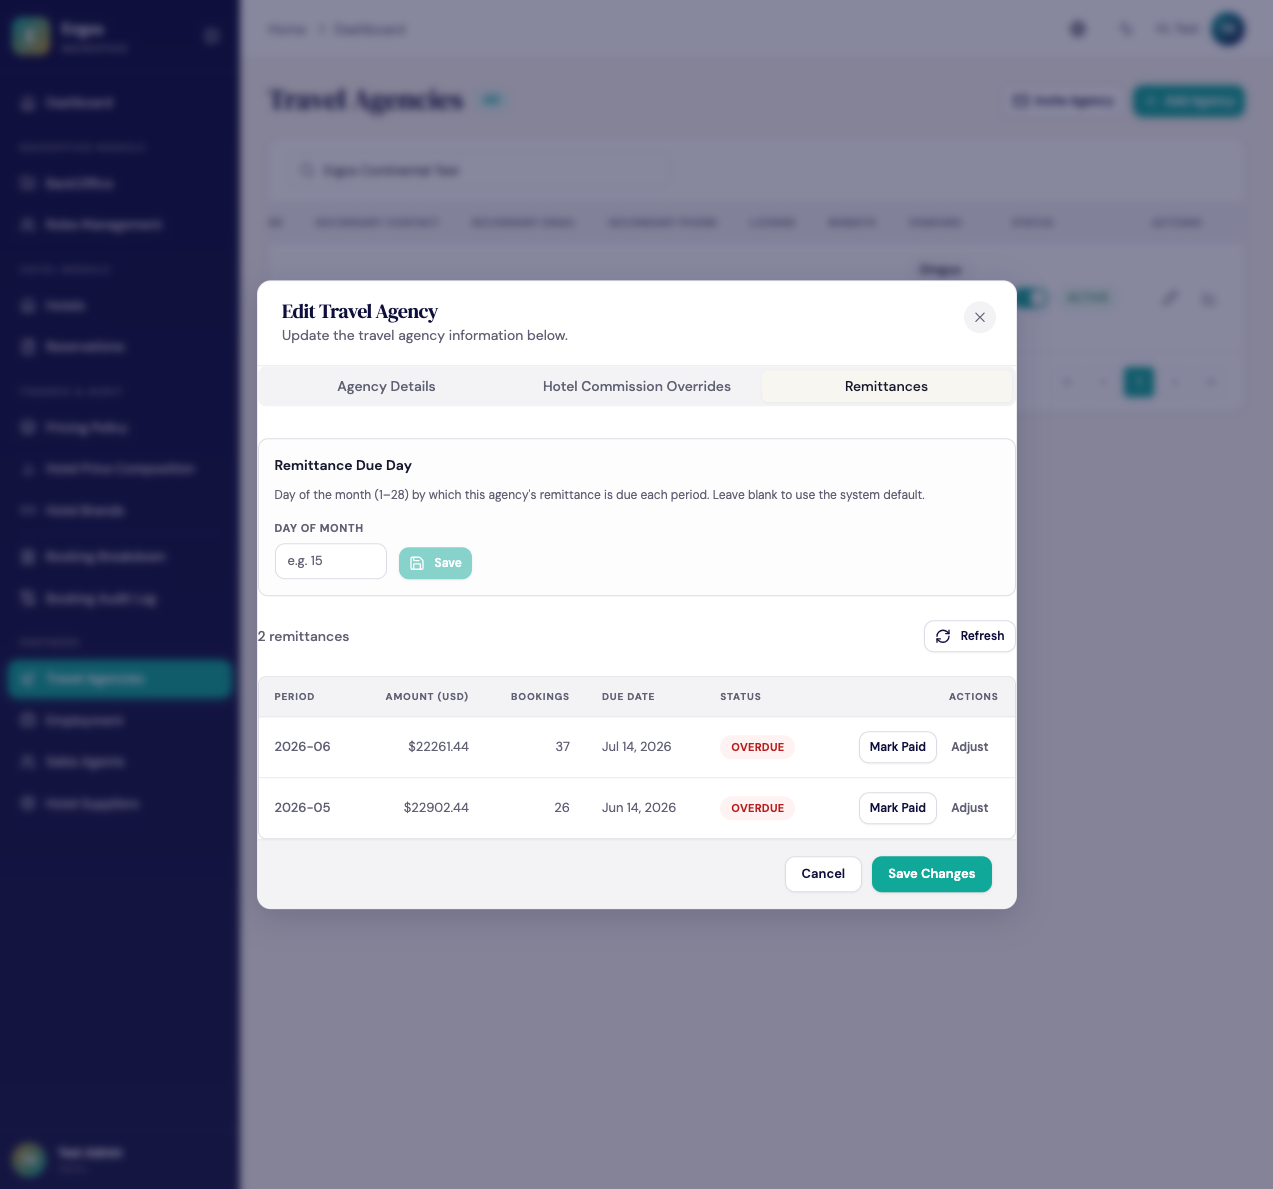
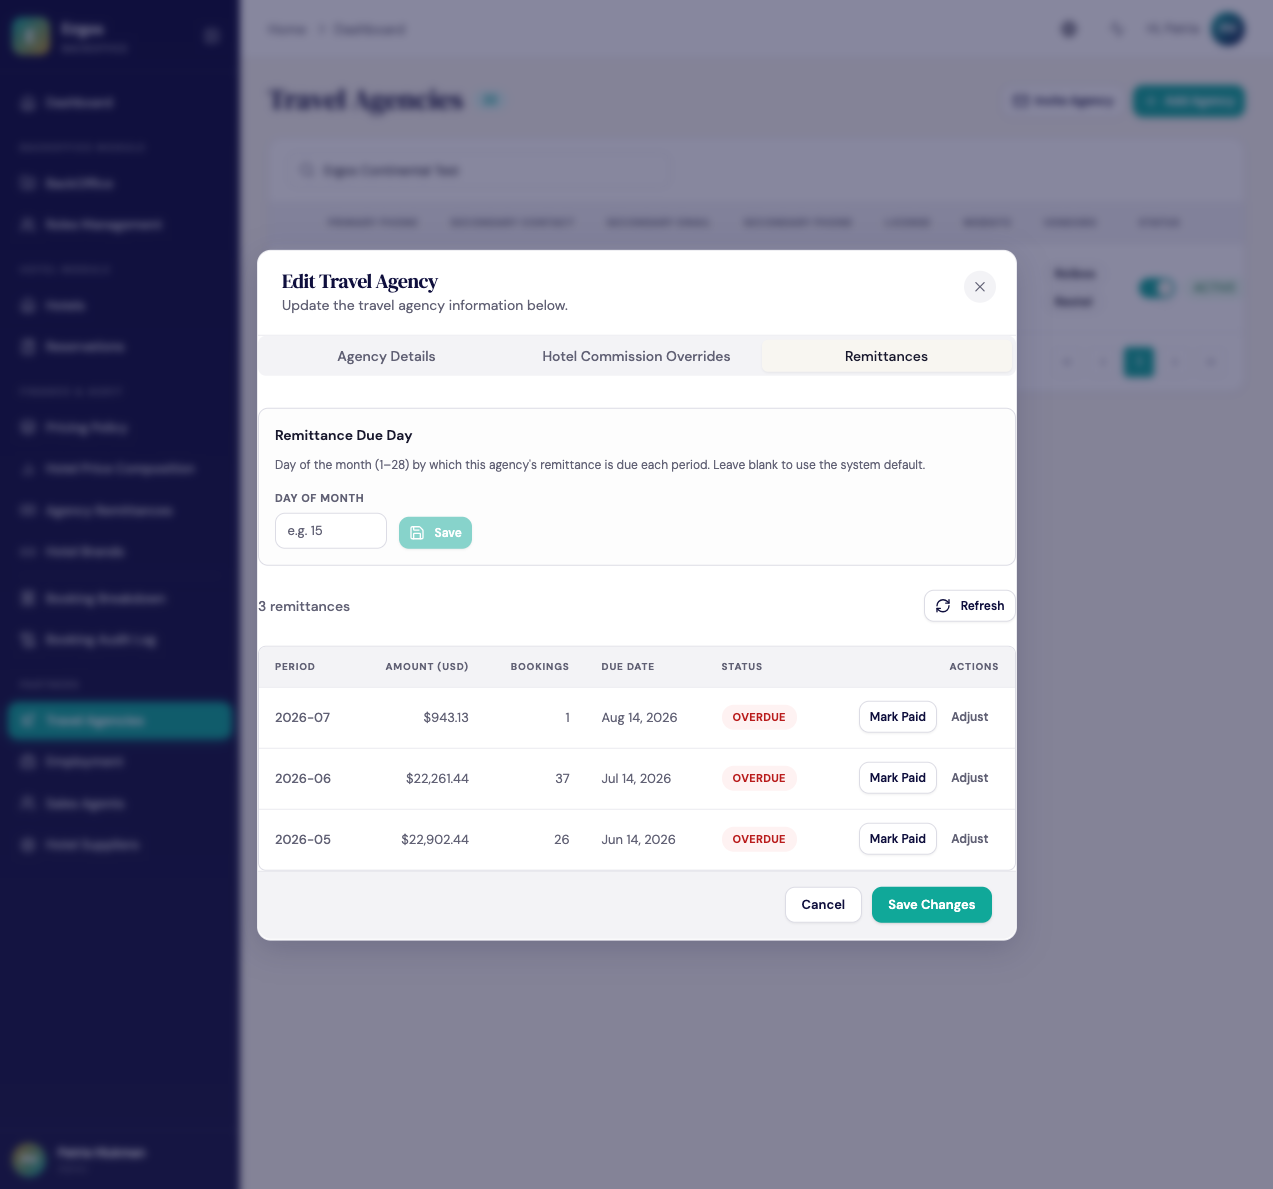
docs(guide): remittance amounts read with thousands separators (documentation#64)
Re-captured both remittance screenshots from TEST; prototype remittance
KPIs, adjust, manual entry and drilldown print $1,234.56 like the live page.

diff --git a/public/prototypes/backoffice/proto-stories.js b/public/prototypes/backoffice/proto-stories.js
@@ -5,6 +5,12 @@
 /* ---------- C1: Agency Remittances ---------- */
 let _frPendingRow = null;
 
+// One money format, as the live backoffice prints it (formatMoneySymbol, documentation#64):
+// en-US thousands separators and two decimals, for every amount on this screen.
+function frMoney(n) {
+  return '$' + Number(n).toLocaleString('en-US', { minimumFractionDigits: 2, maximumFractionDigits: 2 });
+}
+
 function frOpenMarkPaid(btn) {
   const row = btn.closest('tr');
   _frPendingRow = row;
@@ -134,11 +140,11 @@ function frSaveAdjust() {
   if (_frAdjustRow) {
     const oldAmt = _frAdjustRow.querySelector('.fr-amt')?.textContent || '';
     const amtCell = _frAdjustRow.querySelector('.fr-amt');
-    if (amtCell) amtCell.textContent = '$' + newAmt.toFixed(2);
+    if (amtCell) amtCell.textContent = frMoney(newAmt);
     _frAdjustRow.classList.add('fr-row-just-changed');
     _frAdjustRow.scrollIntoView({ behavior: 'smooth', block: 'center' });
     setTimeout(() => _frAdjustRow.classList.remove('fr-row-just-changed'), 1800);
-    boToast(`Adjusted ${oldAmt} → $${newAmt.toFixed(2)} · "${reason.slice(0, 40)}${reason.length > 40 ? '…' : ''}" logged`, 'success');
+    boToast(`Adjusted ${oldAmt} → ${frMoney(newAmt)} · "${reason.slice(0, 40)}${reason.length > 40 ? '…' : ''}" logged`, 'success');
   }
   frCloseAdjust();
 }
@@ -183,7 +189,7 @@ function frSaveManual() {
     tr.innerHTML = `
       <td><strong>${agencyName}</strong><span class="fr-license">${licenseStr}</span></td>
       <td>${period}</td>
-      <td class="text-right fr-amt">$${amount.toFixed(2)}</td>
+      <td class="text-right fr-amt">${frMoney(amount)}</td>
       <td>${new Date(due).toLocaleDateString('en-US', { month: 'short', day: 'numeric', year: 'numeric' })}</td>
       <td><span class="badge badge-warning"><i class="ti ti-clock-hour-4"></i> Pending</span></td>
       <td>—</td>
@@ -199,7 +205,7 @@ function frSaveManual() {
       countEl.textContent = n + ' remittances total';
     }
   }
-  boToast(`Manual remittance created for ${agencyName} · ${period} · $${amount.toFixed(2)} · "${reason.slice(0, 40)}${reason.length > 40 ? '…' : ''}" logged`, 'success');
+  boToast(`Manual remittance created for ${agencyName} · ${period} · ${frMoney(amount)} · "${reason.slice(0, 40)}${reason.length > 40 ? '…' : ''}" logged`, 'success');
   frCloseManual();
 }
 
@@ -860,9 +866,9 @@ function frSelectAgency(linkOrRow) {
   const grid = document.getElementById('fr-detail-grid');
   if (grid) {
     grid.innerHTML = `
-      <div class="fr-detail-stat"><div class="fr-detail-label">Total billed</div><div class="fr-detail-value">$${s.totalBilled.toLocaleString()}</div><div class="muted">last 6 months</div></div>
-      <div class="fr-detail-stat fr-detail-stat-pos"><div class="fr-detail-label">Total paid</div><div class="fr-detail-value">$${s.totalPaid.toLocaleString()}</div><div class="muted">${s.cycles}</div></div>
-      <div class="fr-detail-stat ${s.flag === 'overdue' ? 'fr-detail-stat-warn' : 'fr-detail-stat-warn'}"><div class="fr-detail-label">Currently pending</div><div class="fr-detail-value">$${s.pending.toLocaleString()}</div><div class="muted">${s.dueText}</div></div>
+      <div class="fr-detail-stat"><div class="fr-detail-label">Total billed</div><div class="fr-detail-value">${frMoney(s.totalBilled)}</div><div class="muted">last 6 months</div></div>
+      <div class="fr-detail-stat fr-detail-stat-pos"><div class="fr-detail-label">Total paid</div><div class="fr-detail-value">${frMoney(s.totalPaid)}</div><div class="muted">${s.cycles}</div></div>
+      <div class="fr-detail-stat ${s.flag === 'overdue' ? 'fr-detail-stat-warn' : 'fr-detail-stat-warn'}"><div class="fr-detail-label">Currently pending</div><div class="fr-detail-value">${frMoney(s.pending)}</div><div class="muted">${s.dueText}</div></div>
       <div class="fr-detail-stat"><div class="fr-detail-label">Avg days to pay</div><div class="fr-detail-value">${s.avgDays}</div><div class="muted">${s.tone}</div></div>`;
   }
 

diff --git a/public/prototypes/backoffice/index.html b/public/prototypes/backoffice/index.html
@@ -1317,9 +1317,9 @@
 
         <!-- KPIs (clickable — drill down to filtered list) -->
         <div class="kpi-grid">
-          <div class="kpi kpi-navy fr-kpi-clickable" onclick="frKpiDrilldown('outstanding')" title="Click to see all outstanding remittances"><div class="kpi-label">Outstanding (all agencies)</div><div class="kpi-value">$42,830</div><div class="kpi-delta up">▲ this month</div></div>
-          <div class="kpi kpi-gold fr-kpi-clickable" onclick="frKpiDrilldown('overdue')" title="Click to filter list to overdue rows"><div class="kpi-label">Overdue</div><div class="kpi-value">$3,205</div><div class="kpi-delta down">2 agencies</div></div>
-          <div class="kpi kpi-green fr-kpi-clickable" onclick="frKpiDrilldown('paid')" title="Click to see settled remittances"><div class="kpi-label">Collected (MTD)</div><div class="kpi-value">$28,460</div><div class="kpi-delta up">▲ 18.2%</div></div>
+          <div class="kpi kpi-navy fr-kpi-clickable" onclick="frKpiDrilldown('outstanding')" title="Click to see all outstanding remittances"><div class="kpi-label">Outstanding (all agencies)</div><div class="kpi-value">$42,830.00</div><div class="kpi-delta up">▲ this month</div></div>
+          <div class="kpi kpi-gold fr-kpi-clickable" onclick="frKpiDrilldown('overdue')" title="Click to filter list to overdue rows"><div class="kpi-label">Overdue</div><div class="kpi-value">$3,205.00</div><div class="kpi-delta down">2 agencies</div></div>
+          <div class="kpi kpi-green fr-kpi-clickable" onclick="frKpiDrilldown('paid')" title="Click to see settled remittances"><div class="kpi-label">Collected (MTD)</div><div class="kpi-value">$28,460.00</div><div class="kpi-delta up">▲ 18.2%</div></div>
           <div class="kpi"><div class="kpi-label">Average days to pay</div><div class="kpi-value">6.4 days</div><div class="kpi-delta up">▲ 0.8 d</div></div>
         </div>
 
@@ -1471,9 +1471,9 @@
             </div>
           </div>
           <div class="fr-detail-grid" id="fr-detail-grid">
-            <div class="fr-detail-stat"><div class="fr-detail-label">Total billed</div><div class="fr-detail-value">$13,517</div><div class="muted">last 6 months</div></div>
-            <div class="fr-detail-stat fr-detail-stat-pos"><div class="fr-detail-label">Total paid</div><div class="fr-detail-value">$8,697</div><div class="muted">5 of 6 cycles settled</div></div>
-            <div class="fr-detail-stat fr-detail-stat-warn"><div class="fr-detail-label">Currently pending</div><div class="fr-detail-value">$4,820</div><div class="muted">due Jun 15</div></div>
+            <div class="fr-detail-stat"><div class="fr-detail-label">Total billed</div><div class="fr-detail-value">$13,517.00</div><div class="muted">last 6 months</div></div>
+            <div class="fr-detail-stat fr-detail-stat-pos"><div class="fr-detail-label">Total paid</div><div class="fr-detail-value">$8,697.00</div><div class="muted">5 of 6 cycles settled</div></div>
+            <div class="fr-detail-stat fr-detail-stat-warn"><div class="fr-detail-label">Currently pending</div><div class="fr-detail-value">$4,820.00</div><div class="muted">due Jun 15</div></div>
             <div class="fr-detail-stat"><div class="fr-detail-label">Avg days to pay</div><div class="fr-detail-value">3.2 d</div><div class="muted">consistently on-time</div></div>
           </div>
           <h4 class="fr-h4">Recent audit trail</h4>

diff --git a/public/user-guide/backoffice-app-user-guide.html b/public/user-guide/backoffice-app-user-guide.html
@@ -807,7 +807,7 @@
     <figure class="screenshot">
       <div class="screenshot-frame">
         <img src="c1-remittances-queue.png"
-             alt="Agency Remittances queue — three KPI cards (Outstanding, Overdue, Collected MTD) above a sortable table of remittances with OVERDUE badges and per-row Mark Paid / Adjust buttons."
+             alt="Agency Remittances queue — three KPI cards (Outstanding $127,603.20, Overdue $95,243.20, Collected MTD $8,090.00) above a sortable table of remittances, each row with its amount (e.g. $4,045.00), a PENDING badge and Mark Paid / Adjust buttons."
              loading="lazy" onerror="this.style.display='none'" />
       </div>
       <figcaption class="lang-en">The queue: clickable KPI cards filter the list; each row carries its own <strong>Mark Paid</strong> and <strong>Adjust</strong> actions. Click a row to open the drilldown below it.</figcaption>
@@ -844,7 +844,7 @@
     <figure class="screenshot">
       <div class="screenshot-frame">
         <img src="c1-remittances-agency-tab.png"
-             alt="Edit Travel Agency modal — Remittances tab with the Remittance Due Day editor (1–28) above the agency's remittance history table with Mark Paid and Adjust actions."
+             alt="Edit Travel Agency modal — Remittances tab with the Remittance Due Day editor (1–28) above the agency's remittance history table ($943.13, $22,261.44, $22,902.44, all OVERDUE) with Mark Paid and Adjust actions."
              loading="lazy" onerror="this.style.display='none'" />
       </div>
       <figcaption class="lang-en">The per-agency Remittances tab: the due-day editor (1–28) on top, the agency's own remittance history with the same actions below.</figcaption>
